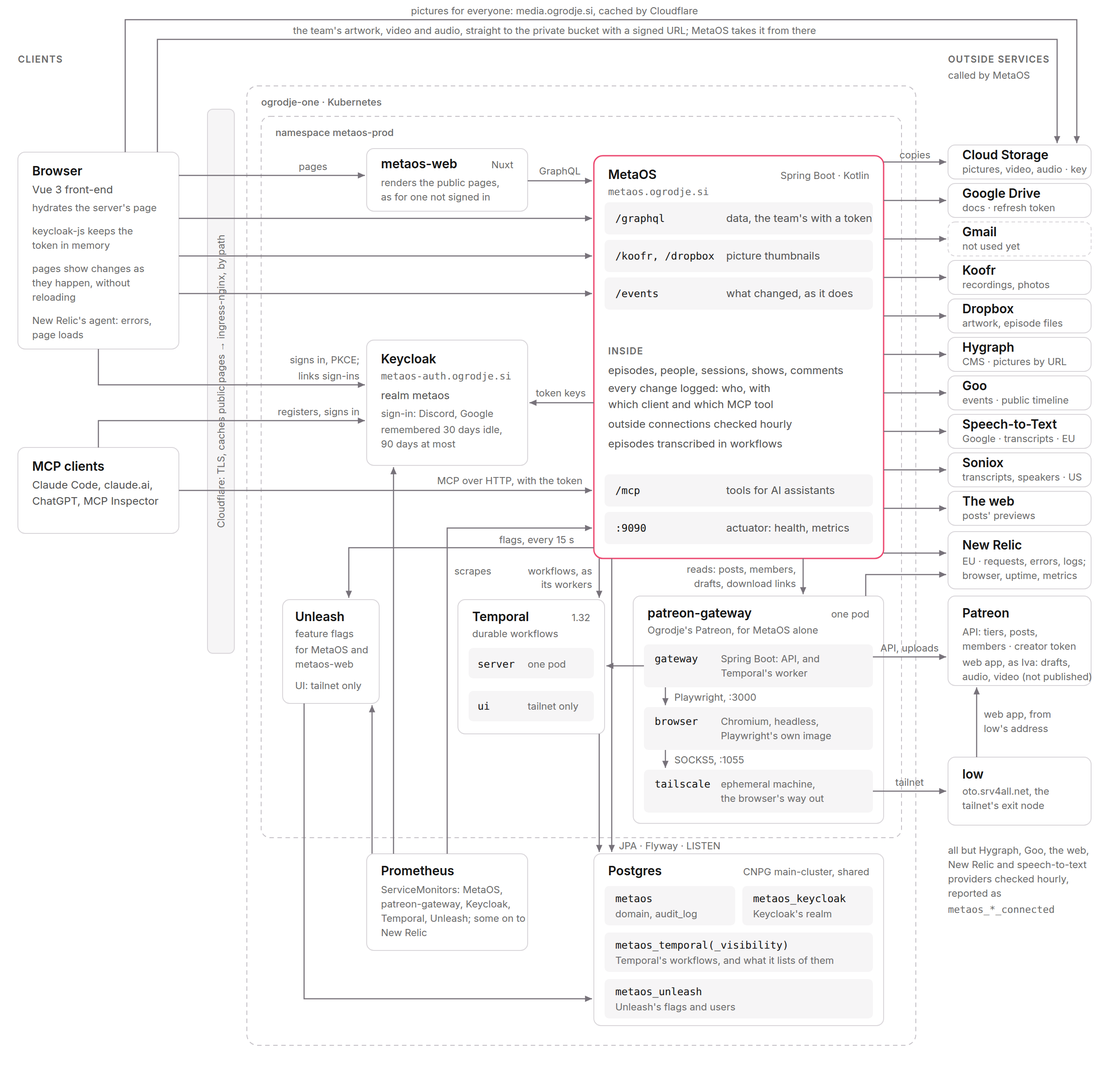
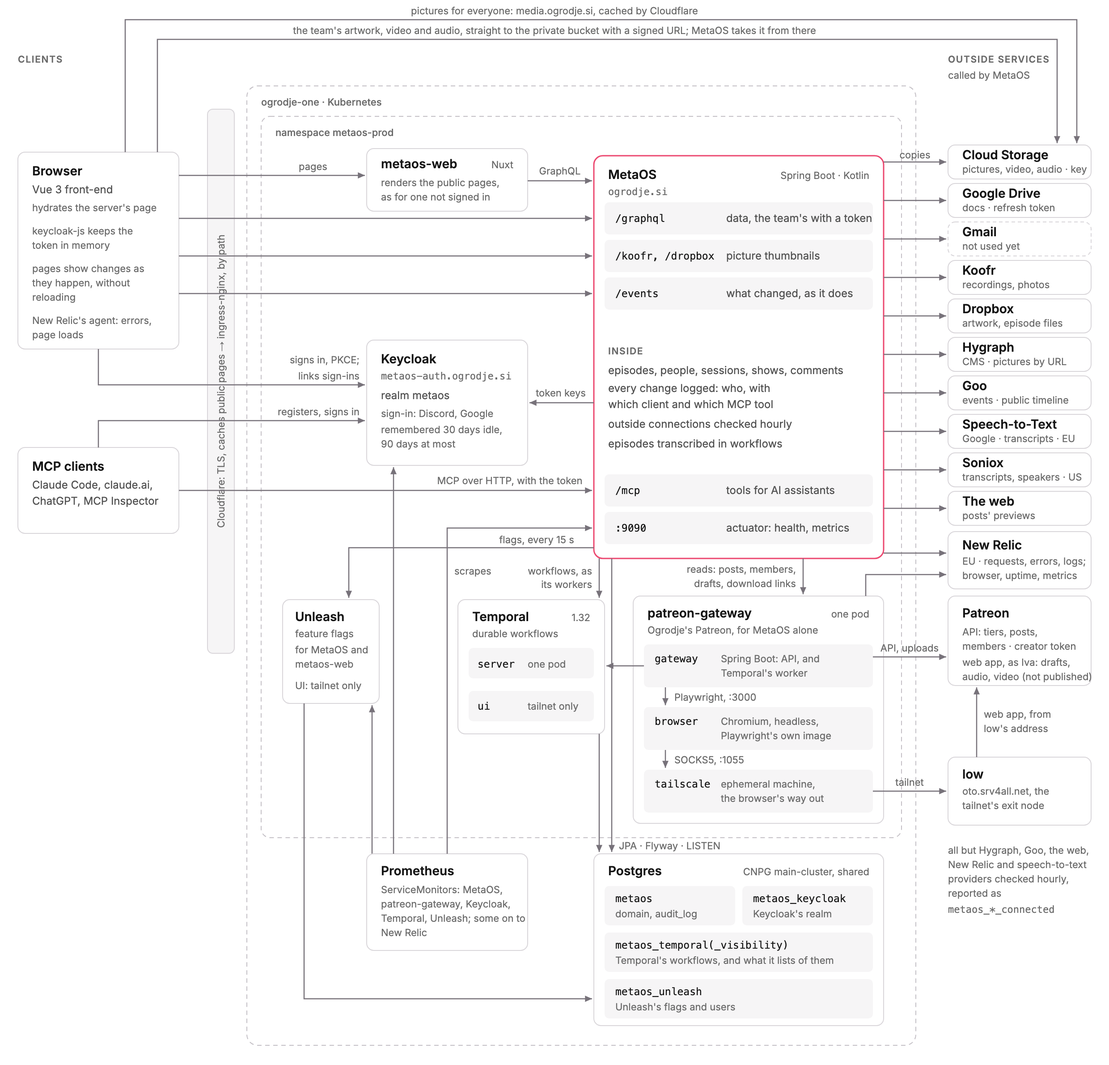
ogrodje.si is MetaOS, and www redirects to it (OG-59) (#79)
* ogrodje.si is MetaOS, and www redirects to it (OG-59)

The switch, on top of the preparation: Netlify's old site goes, and MetaOS
is at https://ogrodje.si. Its old paths that MetaOS doesn't have answer 404.

- DNS: the apex points at the node (an A record of its address, so it
  changes in place; A to CNAME would be deleted and made again), www too,
  and a Single Redirect sends www to the apex, path and query kept.
- The pages' cache rule covers ogrodje.si, and metaos.ogrodje.si till OG-60.
- public-urls and Keycloak's URLs are ogrodje.si's, with metaos.ogrodje.si as
  the other host, so connectors added there keep working.
- The Usage page asks whoever added MCP at metaos.ogrodje.si to add it again
  at ogrodje.si/mcp, by 30 November 2026 (MCP_MOVED).
- New Relic's monitors, deploy.yml's environment and smoke tests (both
  hosts' MCP metadata, the www redirect) and the User-Agents follow.
- DEPLOY.md says the order, what's done by hand (the token's Single
  Redirect permission, gcp's CORS, Google's consent screen) and the
  rollback: DNS back at Netlify.

* TranscriptionTest waits for how far the first got, not only its status

The workflow writes RECOGNIZING, then how far the provider got in a write
of its own, so reading the percentage the moment the status was in failed
now and then (master's deploy of #78).

---------

diff --git a/fe/src/views/UsageView.vue b/fe/src/views/UsageView.vue
@@ -13,7 +13,8 @@ import { searchWords } from '@/search'
 import { usePageMeta } from '@/seo'
 import { useAuthStore } from '@/stores/auth'
 import { toolGroups, TOOLS_VERSION } from '@/tools'
-import { type Client, CLIENTS, clientFrom, curlCommand, filterTools, tabAfter, toolCount, withTimeout } from '@/usage'
+import { TIME_ZONE } from '@/i18n'
+import { type Client, CLIENTS, clientFrom, curlCommand, filterTools, movedFrom, tabAfter, toolCount, withTimeout } from '@/usage'
 import { useLocale } from '@/useLocale'
 
 // API and MCP usage: the two ways into MetaOS, MCP for AI assistants and GraphQL for scripts and apps, and the tools
@@ -23,10 +24,17 @@ const auth = useAuthStore()
 const route = useRoute()
 const router = useRouter()
 const id = useId()
-const { t } = useLocale()
+const { t, dateLocale } = useLocale()
 
 // Where MCP clients connect, and the site, from the runtime config (nuxt.config.ts), so the server's page says them too
 const { mcpUrl, siteUrl } = useRuntimeConfig().public
+
+// Where MCP was before it moved to ogrodje.si (OG-59), and until when that answers, for those who added it there. In
+// Slovenian as 30. 11. 2026, as "do" wants the month's genitive (novembra), which Intl doesn't give
+const moved = movedFrom(mcpUrl)
+const movedUntil = computed(() => moved?.until.toLocaleDateString(dateLocale.value, {
+  day: 'numeric', month: dateLocale.value === 'sl-SI' ? 'numeric' : 'long', year: 'numeric', timeZone: TIME_ZONE,
+}))
 
 usePageMeta(() => ({ description: t('usage.description') }))
 
@@ -158,6 +166,11 @@ const matches = computed(() => {
         <h2 id="mcp">MCP</h2>
       </div>
       <p class="intro">{{ t('usage.mcp.intro') }}</p>
+      <I18nT v-if="moved" keypath="usage.mcp.moved" tag="p" class="moved" scope="global">
+        <template #url><code>{{ mcpUrl }}</code></template>
+        <template #old><code>{{ moved.from }}</code></template>
+        <template #date>{{ movedUntil }}</template>
+      </I18nT>
 
       <div class="tabs" role="tablist" :aria-label="t('usage.mcp.assistant')">
         <button v-for="(c, index) in CLIENTS" :id="tabId(c.id)" :key="c.id" type="button" role="tab"
@@ -442,6 +455,18 @@ section, .step {
   font-size: var(--text-body);
   line-height: 22px;
   color: var(--secondary);
+}
+
+// That MCP moved (OG-59): a line to act on, so it stands apart from the intro, quietly
+.moved {
+  max-width: 68ch;
+  margin-bottom: 16px;
+  padding: 10px 12px;
+  border: 1px solid var(--hairline);
+  border-radius: var(--radius-sm);
+  background: var(--surface);
+  font-size: var(--text-body);
+  line-height: 22px;
 }
 
 // The page's title, and the two ways in under it

diff --git a/fe/src/__tests__/usage.spec.ts b/fe/src/__tests__/usage.spec.ts
@@ -1,7 +1,7 @@
 import { describe, expect, it, vi } from 'vitest'
 import { TOOL_GROUPS, type ToolGroup, toolGroups } from '@/tools'
 import { en, type Messages, sl, t, tSl } from './i18n'
-import { clientFrom, curlCommand, filterTools, tabAfter, toolCount, withTimeout } from '@/usage'
+import { clientFrom, curlCommand, filterTools, movedFrom, tabAfter, toolCount, withTimeout } from '@/usage'
 
 const GROUPS: ToolGroup[] = [
   {
@@ -97,7 +97,7 @@ describe('toolCount', () => {
 })
 
 describe('curlCommand', () => {
-  const URL = 'https://metaos.ogrodje.si/graphql'
+  const URL = 'https://ogrodje.si/graphql'
   // As a shell runs it: the lines joined again at their backslashes
   const oneLine = (command: string) => command.replaceAll(' \\\n  ', ' ')
 
@@ -118,6 +118,19 @@ describe('curlCommand', () => {
     expect(oneLine(command)).toBe(`curl -s ${URL} -H 'Content-Type: application/json' -H "Authorization: Bearer $TOKEN" `
       + `-d '{"query":"mutation ($ref: String!, $body: String!) { commentOnEpisode(ref: $ref, body: $body) { id createdAt } }",`
       + `"variables":{"ref":"S05E08","body":"Hello from the API"}}'`)
+  })
+})
+
+describe('movedFrom', () => {
+  it('names the old address where MCP moved to', () => {
+    expect(movedFrom('https://ogrodje.si/mcp')).toEqual({
+      from: 'https://metaos.ogrodje.si/mcp', until: new Date('2026-11-30T12:00:00Z'),
+    })
+  })
+
+  it('says nothing elsewhere, e.g. in development', () => {
+    expect(movedFrom('http://localhost:8080/mcp')).toBeUndefined()
+    expect(movedFrom('https://metaos.ogrodje.si/mcp')).toBeUndefined()
   })
 })
 

diff --git a/src/test/kotlin/si/ogrodje/metaos/TranscriptionTest.kt b/src/test/kotlin/si/ogrodje/metaos/TranscriptionTest.kt
@@ -324,8 +324,10 @@ class TranscriptionTest @Autowired constructor(
         single.holding = true
 
         val firstOn = mcp.transcribeEpisode("S09E86", first.id, "single", null, null, null)
-        until("the first was heard") { transcription("S09E86", first, "single")?.status == TranscriptionStatus.RECOGNIZING }
-        assertEquals(50, transcription("S09E86", first, "single")?.percent)
+        // How far it got comes in a write after its status, so it's waited for too, not read the moment the status is in
+        until("the first was heard, half of it") {
+            transcription("S09E86", first, "single")?.let { it.status == TranscriptionStatus.RECOGNIZING && it.percent == 50 } == true
+        }
         val secondOn = mcp.transcribeEpisode("S09E86", second.id, "single", null, null, null)
         until("the second waited its turn, next in line") {
             mcp.getTranscription(secondOn.id).let { it.status == TranscriptionStatus.QUEUED && it.queued == 1 }

diff --git a/fe/src/usage.ts b/fe/src/usage.ts
@@ -80,3 +80,15 @@ export function withTimeout<T>(promise: Promise<T>, ms = 3000): Promise<T> {
   })
   return Promise.race([promise, timeout]).finally(() => clearTimeout(timer))
 }
+
+/**
+ * MCP moved from metaos.ogrodje.si to ogrodje.si (OG-59). Assistants keep the address they were given, and the old one
+ * answers until [until], when it goes (OG-60), so the page asks whoever added it there to add it again
+ */
+export const MCP_MOVED = { from: 'https://metaos.ogrodje.si/mcp', to: 'https://ogrodje.si/mcp', until: '2026-11-30' }
+
+/** The old address, when [mcpUrl] is where MCP moved to, for the page to say; else none, e.g. in development */
+export function movedFrom(mcpUrl: string): { from: string, until: Date } | undefined {
+  if (mcpUrl !== MCP_MOVED.to) return undefined
+  return { from: MCP_MOVED.from, until: new Date(`${MCP_MOVED.until}T12:00:00Z`) }
+}

diff --git a/patreon-gateway/src/main/kotlin/si/ogrodje/patreon/Media.kt b/patreon-gateway/src/main/kotlin/si/ogrodje/patreon/Media.kt
@@ -108,7 +108,7 @@ class Media(private val properties: PatreonProperties) {
         repeat(6) {
             onTheInternet(uri)
             val request = HttpRequest.newBuilder(uri).timeout(Duration.ofHours(1))
-                .header("User-Agent", "Ogrodje patreon-gateway (https://metaos.ogrodje.si)").GET().build()
+                .header("User-Agent", "Ogrodje patreon-gateway (https://ogrodje.si)").GET().build()
             val response = downloader.send(request, HttpResponse.BodyHandlers.ofFile(file))
             if (response.statusCode() !in 300..399) return response
             uri = uri.resolve(response.headers().firstValue("Location").orElseThrow { IllegalArgumentException("${uri.host} redirected nowhere") })

diff --git a/patreon-gateway/src/main/kotlin/si/ogrodje/patreon/PatreonApi.kt b/patreon-gateway/src/main/kotlin/si/ogrodje/patreon/PatreonApi.kt
@@ -350,7 +350,7 @@ class PatreonApi(
 
     private companion object {
         const val API = "https://www.patreon.com/api/oauth2/v2/"
-        const val USER_AGENT = "Ogrodje patreon-gateway (https://metaos.ogrodje.si)"
+        const val USER_AGENT = "Ogrodje patreon-gateway (https://ogrodje.si)"
         const val POST_FIELDS = "title,url,published_at,is_public,is_paid,tiers,content,embed_url"
         const val MEMBER_FIELDS = "full_name,email,patron_status,pledge_relationship_start,lifetime_support_cents," +
             "currently_entitled_amount_cents,last_charge_date,last_charge_status,is_free_trial,is_gifted"

diff --git a/src/main/kotlin/si/ogrodje/metaos/DistributionPreview.kt b/src/main/kotlin/si/ogrodje/metaos/DistributionPreview.kt
@@ -148,7 +148,7 @@ class PublicWeb(@Value("\${metaos.previews.allow-local:false}") private val allo
 
     private companion object {
         const val MAX_REDIRECTS = 4
-        const val USER_AGENT = "Mozilla/5.0 (compatible; MetaOS/1.0; +https://metaos.ogrodje.si)"
+        const val USER_AGENT = "Mozilla/5.0 (compatible; MetaOS/1.0; +https://ogrodje.si)"
     }
 }
 

diff --git a/DEPLOY.md b/DEPLOY.md
@@ -13,8 +13,8 @@ Status (2026-10-19): everything is written and verified locally. Nothing is depl
 
 | Piece                       | Where                                         | Notes                                                                                   |
 |-----------------------------|-----------------------------------------------|-----------------------------------------------------------------------------------------|
-| App                         | `https://metaos.ogrodje.si`                   | `/mcp` is the MCP endpoint; `/graphql`, `/events` and the thumbnails are the front-end's |
-| Front-end                   | `https://metaos.ogrodje.si`, all other paths  | `metaos-web`: Nuxt on Node, renders the pages anyone may see; Cloudflare caches them    |
+| App                         | `https://ogrodje.si`                          | `/mcp` is the MCP endpoint; `/graphql`, `/events` and the thumbnails are the front-end's |
+| Front-end                   | `https://ogrodje.si`, all other paths         | `metaos-web`: Nuxt on Node, renders the pages anyone may see; Cloudflare caches them    |
 | Keycloak                    | `https://metaos-auth.ogrodje.si`              | Own instance, realm `metaos` baked into the image and imported on first start           |
 | Postgres                    | `main-cluster` in namespace `pg`              | Databases `metaos` and `metaos_keycloak`, each owned by a role of the same name         |
 | Images                      | `registry.folk-decibel.ts.net/metaos/...`     | `metaos`, `metaos-web`, `keycloak`, `patreon-gateway`; deployed by digest               |
@@ -46,7 +46,7 @@ justfile                     the same steps by hand: just push, just deploy, jus
 - **Public URLs in one place.** `kustomization.yaml` generates a `public-urls` ConfigMap (Keycloak hostname, issuer,
   MCP URL) that both Deployments read. Its name carries a content hash, so changing a URL rolls both.
 - **Proxy headers.** The app trusts ingress-nginx's `X-Forwarded-*` headers, so its OAuth metadata advertises
-  `https://metaos.ogrodje.si/mcp` rather than the pod's own address.
+  `https://ogrodje.si/mcp` rather than the pod's own address.
 - **Streaming.** The app's Ingress turns off nginx buffering and raises the timeouts to an hour, because Streamable
   HTTP responses can be long-lived SSE streams. `/events`, the front-end's stream of changes, is one too; it also says
   `X-Accel-Buffering: no`, and sends a heartbeat every 25 s, as Cloudflare hangs up after 100 s of silence.
@@ -86,7 +86,7 @@ justfile                     the same steps by hand: just push, just deploy, jus
 - **App image**, run against the local compose Postgres with the production settings:
   - liveness, readiness and `/actuator/prometheus` answer on 9090;
   - actuator returns 401 on the public port 8080;
-  - with proxy headers, the protected resource metadata is `https://metaos.ogrodje.si/mcp` with authorization server
+  - with proxy headers, the protected resource metadata is `https://ogrodje.si/mcp` with authorization server
     `https://metaos-auth.ogrodje.si/realms/metaos`, and anonymous `/mcp` gets a 401 pointing at it.
 - **Keycloak image**, run against a throwaway Postgres:
   - realm `metaos` is imported;
@@ -232,7 +232,7 @@ could read it eventually; link previews (Discord, Slack, X, ...) and most other 
 server and hydrates them into the same single-page app (CLAUDE.md, Front-end).
 
 - **Two services on one host.** `metaos-web` (`deployment-web.yaml`, two pods) serves everything on
-  `metaos.ogrodje.si` but MetaOS's own paths, which `metaos-ingress` keeps for the app: `/graphql`, `/events`, `/mcp`,
+  `ogrodje.si` but MetaOS's own paths, which `metaos-ingress` keeps for the app: `/graphql`, `/events`, `/mcp`,
   `/.well-known`, `/koofr`, `/dropbox`, `/livez` and `/readyz` (ingress-nginx takes the longest matching path). The
   browser still sees one origin, so there's no CORS, and Keycloak's silent check works as before. The app serves no
   pages and has no `/config.json` any more: the front-end's runtime config comes from `public-urls`.
@@ -255,6 +255,36 @@ server and hydrates them into the same single-page app (CLAUDE.md, Front-end).
 - **Not yet verified:** the images, the Ingress split and the Cloudflare rule in production, and real crawlers and
   link previews (Google's Rich Results Test, a link posted in Discord).
 
+## ogrodje.si (OG-59)
+
+MetaOS took over `ogrodje.si` from Netlify's old site, which `www.ogrodje.si` redirects to; the old site's paths it
+doesn't have (`/epizode/...`, `/ljudje`, `/strategija`) answer 404, as any page it doesn't have. Keycloak stays at
+`metaos-auth.ogrodje.si`. It went in two pull requests, as the switch shouldn't depend on which of the deploy and
+Terraform's applies lands first:
+
+1. **Both hosts.** The Ingresses take `ogrodje.si` beside `metaos.ogrodje.si`, tokens carry both hosts' `/mcp` and
+   `/graphql` (Keycloak's `metaos_other_urls`) and the app takes both (`METAOS_OTHER_AUDIENCES`), `metaos-ui` signs in
+   from both, and Cloudflare imports the apex's and www's records as Netlify had them. By hand, before the switch:
+   `just infra gcp apply`, for the private bucket's CORS (uploads from `ogrodje.si`).
+2. **The switch.** The apex points at the node (an A record, its address, so it changes in place rather than being
+   deleted and made again), www too, behind a Single Redirect to the apex (`redirects.tf`), the pages' cache rule
+   covers both hosts, `public-urls` and Keycloak's URLs become `ogrodje.si`'s with `metaos.ogrodje.si` as the other,
+   and the monitors, the smoke test and the User-Agents follow. Before merging it:
+   - `CLOUDFLARE_API_TOKEN` gets **Single Redirect: Edit** (in 1Password, which CI reads too), or the apply fails;
+   - Google's OAuth consent screen (project `ogrodje-metaos`, Branding) gets home page `https://ogrodje.si` and privacy
+     policy `https://ogrodje.si/zasebnost`, and the app is published, not in Testing, so members can sign in with
+     Google.
+
+`metaos.ogrodje.si` keeps working, whole, so the MCP connectors added there keep theirs; the Usage page asks whoever
+added one there to add it again at `https://ogrodje.si/mcp` by 30 November 2026 (`MCP_MOVED` in `fe/src/usage.ts`).
+Then it redirects to `ogrodje.si`, and the second host goes from Keycloak, the app, the Ingresses, CORS and the cache
+rule (OG-60).
+
+**Rolling back** is pointing DNS at Netlify again: in `infra/cloudflare/dns.tf`, the apex's A record `75.2.60.5` and
+www's CNAME `ogrodje.netlify.app`, and the redirect rule out, as Netlify redirects www itself. MetaOS is still whole at
+`metaos.ogrodje.si`, and Keycloak takes both, so nothing else has to go back first; `public-urls` and Keycloak's URLs
+go back after, for the canonical addresses and the MCP address the Usage page gives.
+
 ## Next steps
 
 1. [ ] **DNS.** Add `metaos.ogrodje.si` and `metaos-auth.ogrodje.si` as proxied Cloudflare CNAMEs to
@@ -275,4 +305,4 @@ server and hydrates them into the same single-page app (CLAUDE.md, Front-end).
     - in the Tailscale access policy, add `metaos-deployers` to the groups `tag:ci` impersonates on
       `tag:k8s-operator`, next to `bongbong-deployers`.
 6. [ ] **Check it.** Run the commands in [`k8s/README.md`](k8s/README.md#checking-it), then
-   `claude mcp add --transport http metaos https://metaos.ogrodje.si/mcp`.
+   `claude mcp add --transport http metaos https://ogrodje.si/mcp`.

diff --git a/k8s/README.md b/k8s/README.md
@@ -26,7 +26,7 @@ docker/patreon-gateway.Dockerfile  patreon-gateway's boot jar on distroless java
 
 | Host                     | What                                                                       |
 |--------------------------|----------------------------------------------------------------------------|
-| `metaos.ogrodje.si`      | the front-end's pages; the app's `/graphql`, `/events`, `/mcp`, ...        |
+| `ogrodje.si`             | the front-end's pages; the app's `/graphql`, `/events`, `/mcp`, ...        |
 | `metaos-auth.ogrodje.si` | Keycloak; realm `metaos` issues the tokens, `/admin` is the admin console |
 | `metaos-temporal.folk-decibel.ts.net` | Temporal's UI, on the tailnet only (nothing signs in to it): workflows and their histories |
 | `metaos-unleash.folk-decibel.ts.net` | Unleash's UI, on the tailnet only, with its own sign-in: the feature flags |
@@ -90,7 +90,7 @@ just gateway-logs  # follow patreon-gateway
 
 3. **Cloudflare caches the pages** anyone may see, as their `Cache-Control` says (`s-maxage=60,
    stale-while-revalidate=600`), but only with a Cache Rule, as it doesn't cache HTML by default: for host
-   `metaos.ogrodje.si`, *Eligible for cache*, Edge TTL *Use cache-control header if present, bypass cache if not*,
+   `ogrodje.si`, *Eligible for cache*, Edge TTL *Use cache-control header if present, bypass cache if not*,
    Browser TTL *Respect origin*. The team's pages say `no-store`, and the API's answers aren't cacheable, so they pass
    through. It's `metaos: pages`, Terraform's ([infra/cloudflare](../infra/cloudflare/caching.tf)), which also
    leaves MetaOS's own paths (`/graphql`, `/events`, `/mcp`, ...) uncached, whatever they say.
@@ -136,10 +136,10 @@ just gateway-logs  # follow patreon-gateway
 ## Checking it
 
 ```bash
-curl -s https://metaos.ogrodje.si/.well-known/oauth-protected-resource/mcp   # resource + authorization server
+curl -s https://ogrodje.si/.well-known/oauth-protected-resource/mcp   # resource + authorization server
 curl -s https://metaos-auth.ogrodje.si/realms/metaos/.well-known/openid-configuration
-curl -sI https://metaos.ogrodje.si/episodes | grep -i 'cf-cache-status\|cache-control'   # HIT on the second try
-curl -s https://metaos.ogrodje.si/episodes | grep -c 'href="/episodes/S'               # rendered on the server
+curl -sI https://ogrodje.si/episodes | grep -i 'cf-cache-status\|cache-control'   # HIT on the second try
+curl -s https://ogrodje.si/episodes | grep -c 'href="/episodes/S'               # rendered on the server
 kubectl -n metaos-prod get pods,svc,ingress
 kubectl -n metaos-prod port-forward deploy/metaos 9090 &
 curl -s localhost:9090/actuator/health
@@ -153,8 +153,8 @@ kubectl -n metaos-prod port-forward deploy/metaos-web 3000 &
 curl -s 'localhost:3000/flags?appName=check'                         # the flags on, as the front-end has them
 ```
 
-Then point an MCP client at `https://metaos.ogrodje.si/mcp`, e.g.
-`claude mcp add --transport http metaos https://metaos.ogrodje.si/mcp`.
+Then point an MCP client at `https://ogrodje.si/mcp`, e.g.
+`claude mcp add --transport http metaos https://ogrodje.si/mcp`.
 
 ## Notes
 

diff --git a/infra/README.md b/infra/README.md
@@ -8,7 +8,7 @@ Nothing in it is set up by hand or by a script: a change to it is a change here,
 | [`keycloak/`](keycloak)       | Realm `metaos`: scopes, clients, sign-in providers, members and staff, sessions, email | `prod`: Cloud Storage; `dev`: each developer's own | `prod`: CI, on merge; `dev`: `just keycloak <command> dev` |
 | [`gcp/`](gcp)                 | Project `ogrodje-metaos`: both environments' Cloud Storage, the states' bucket, CI's way in | Cloud Storage          | `just infra gcp <command>`, by its owners only |
 | [`newrelic/`](newrelic)       | New Relic: the browser apps, uptime checks, alerts and where they go, the dashboard       | Cloud Storage          | CI, on merge |
-| [`cloudflare/`](cloudflare)   | Zone `ogrodje.si`, as far as MetaOS goes: its three names, the zone's cache and configuration rules, Smart Tiered Caching | Cloud Storage          | CI, on merge |
+| [`cloudflare/`](cloudflare)   | Zone `ogrodje.si`, as far as MetaOS goes: its five names (the apex and www too), the zone's cache, configuration and redirect rules, Smart Tiered Caching | Cloud Storage          | CI, on merge |
 | [`tailscale/`](tailscale)     | The tailnet's policy file, all of it. **Private:** never in git, never in CI (below)     | Cloud Storage          | `just infra tailscale <command>`, on a machine that has the file |
 
 ## Public and private
@@ -54,7 +54,7 @@ in them, so only the project's owners and CI read it. Development's Keycloak is 
 | The states, and `gcp`                       | You, in gcloud (`gcloud auth login`): `just` hands Terraform gcloud's token | `metaos-terraform-ci`, with no key (Workload Identity Federation, `gcp/ci.tf`) |
 | Keycloak                                    | `KEYCLOAK_ADMIN_USERNAME`, `KEYCLOAK_ADMIN_PASSWORD`; development's is `admin` / `admin` | The same secrets |
 | New Relic                                   | `NEW_RELIC_USER_KEY`, a User API key                 | `NEW_RELIC_API_KEY`           |
-| Cloudflare                                  | `CLOUDFLARE_API_TOKEN`: zone `ogrodje.si`, Zone Read, DNS Edit, Zone Settings Edit, Cache Rules Edit, Config Rules Edit | The same secret |
+| Cloudflare                                  | `CLOUDFLARE_API_TOKEN`: zone `ogrodje.si`, Zone Read, DNS Edit, Zone Settings Edit, Cache Rules Edit, Config Rules Edit, Single Redirect Edit | The same secret |
 | Tailscale                                   | `TAILSCALE_OAUTH_CLIENT_ID`, `TAILSCALE_OAUTH_CLIENT_SECRET`: the OAuth client "MetaOS Terraform" (Trust credentials) with Policy File write, Devices Core read, Devices Routes read | Not in CI |
 
 ## CI

diff --git a/CLAUDE.md b/CLAUDE.md
@@ -359,10 +359,11 @@ just keycloak apply dev         # and after each change to infra/keycloak/realm;
   `http://localhost:8080/graphql`) must be the public URLs of `/mcp` and `/graphql`; they are used by both Keycloak
   (token audience) and the app (audience check); Keycloak has them from `infra/keycloak/<env>/main.tf`, which has to
   change with them. `METAOS_UI_URL` (default `http://localhost:5173`) is where the front-end is, for `metaos-ui`'s
-  redirect URIs. `KEYCLOAK_ISSUER_URI` points the app at another realm. While MetaOS moves to another host (OG-59:
-  `metaos.ogrodje.si` to `ogrodje.si`), it's at both: the Ingresses have both hosts, Keycloak's `metaos_other_urls`
-  puts the other's `/mcp` and `/graphql` into tokens too and lets its front-end sign in, the app takes them as well
-  (`METAOS_OTHER_AUDIENCES`, in `public-urls`), and the private bucket's CORS has both origins.
+  redirect URIs. `KEYCLOAK_ISSUER_URI` points the app at another realm. While MetaOS moves to another host, it's at
+  both: the Ingresses have both hosts, Keycloak's `metaos_other_urls` puts the other's `/mcp` and `/graphql` into
+  tokens too and lets its front-end sign in, the app takes them as well (`METAOS_OTHER_AUDIENCES`, in `public-urls`),
+  and the private bucket's CORS has both origins. So it is now, at `ogrodje.si` and, till OG-60 redirects it, at
+  `metaos.ogrodje.si`, where it was until OG-59 (DEPLOY.md, ogrodje.si).
 - A change to the realm is a change to `infra/keycloak/realm`, planned and applied, never one made in the admin
   console, which the next apply would undo; only users and who has `metaos-user` are the console's. To start over in
   development (wipes all Keycloak data, including registered MCP clients):
@@ -1049,8 +1050,8 @@ takes nothing until the next, and one full user ([`NewRelic.kt`](src/main/kotlin
 
 ### Deployment
 
-Production runs on the ogrodje-one Kubernetes cluster, namespace `metaos-prod`: the app at `https://metaos.ogrodje.si`
-and its Keycloak at `https://metaos-auth.ogrodje.si`. Pushes to `master` deploy through
+Production runs on the ogrodje-one Kubernetes cluster, namespace `metaos-prod`: the app at `https://ogrodje.si`
+(which www redirects to; `https://metaos.ogrodje.si` till OG-60) and its Keycloak at `https://metaos-auth.ogrodje.si`. Pushes to `master` deploy through
 [`.github/workflows/deploy.yml`](.github/workflows/deploy.yml); [`k8s/README.md`](k8s/README.md) has the manifests,
 the one-time setup and the `just` recipes for deploying by hand. [`DEPLOY.md`](DEPLOY.md) explains the setup, the
 decisions behind it and what is left to do.

diff --git a/README.md b/README.md
@@ -46,19 +46,19 @@ The diagram is drawn in [`architecture.svg`](architecture.svg); `just architectu
 Claude Code (then `/mcp` → ogrodje → Authenticate):
 
 ```bash
-claude mcp add --transport http --scope user ogrodje https://metaos.ogrodje.si/mcp
+claude mcp add --transport http --scope user ogrodje https://ogrodje.si/mcp
 ```
 
 Claude, on claude.ai or in the desktop app: Settings → Connectors → Add custom connector, with
-`https://metaos.ogrodje.si/mcp`, then Connect. Its phone apps use it once it's connected.
+`https://ogrodje.si/mcp`, then Connect. Its phone apps use it once it's connected.
 
 Codex (CLI, IDE extension and app; signs in right away, `codex mcp login ogrodje` signs in again):
 
 ```bash
-codex mcp add ogrodje --url https://metaos.ogrodje.si/mcp
+codex mcp add ogrodje --url https://ogrodje.si/mcp
 ```
 
-ChatGPT, on chatgpt.com in a browser: Plugins → Add → Add custom MCP server, with `https://metaos.ogrodje.si/mcp`,
+ChatGPT, on chatgpt.com in a browser: Plugins → Add → Add custom MCP server, with `https://ogrodje.si/mcp`,
 OAuth and Dynamic Client Registration (DCR). The front-end's Usage page (`/usage`) has the steps for each.
 
 ## Development && Infrastructure notes
